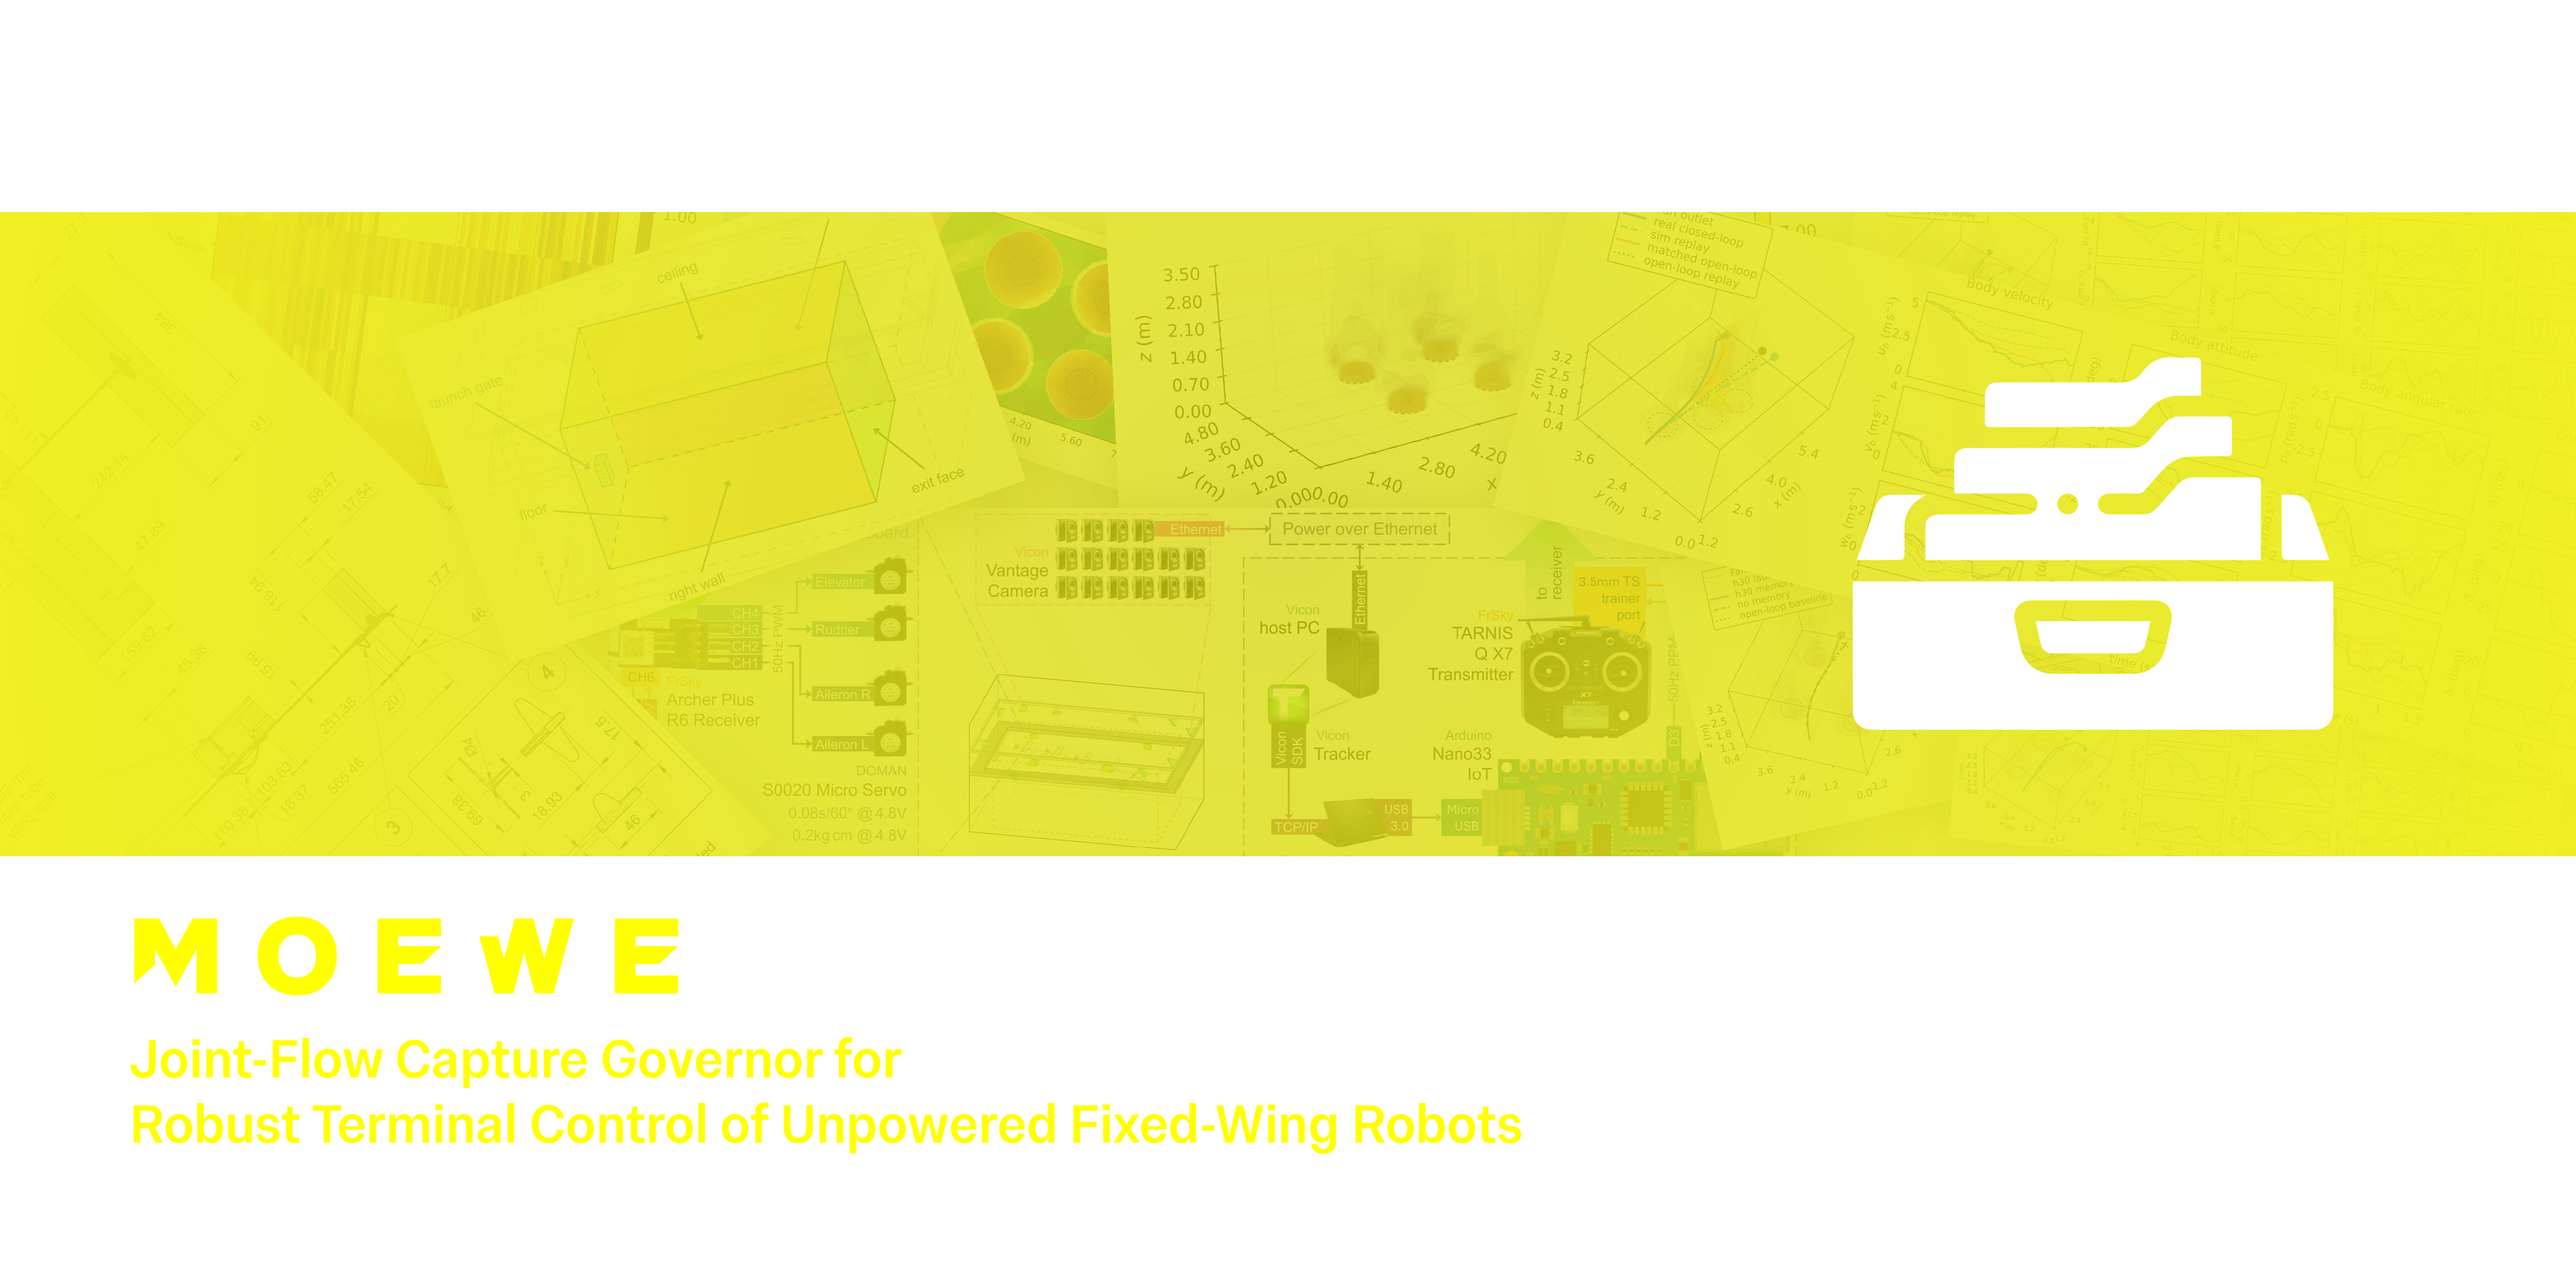
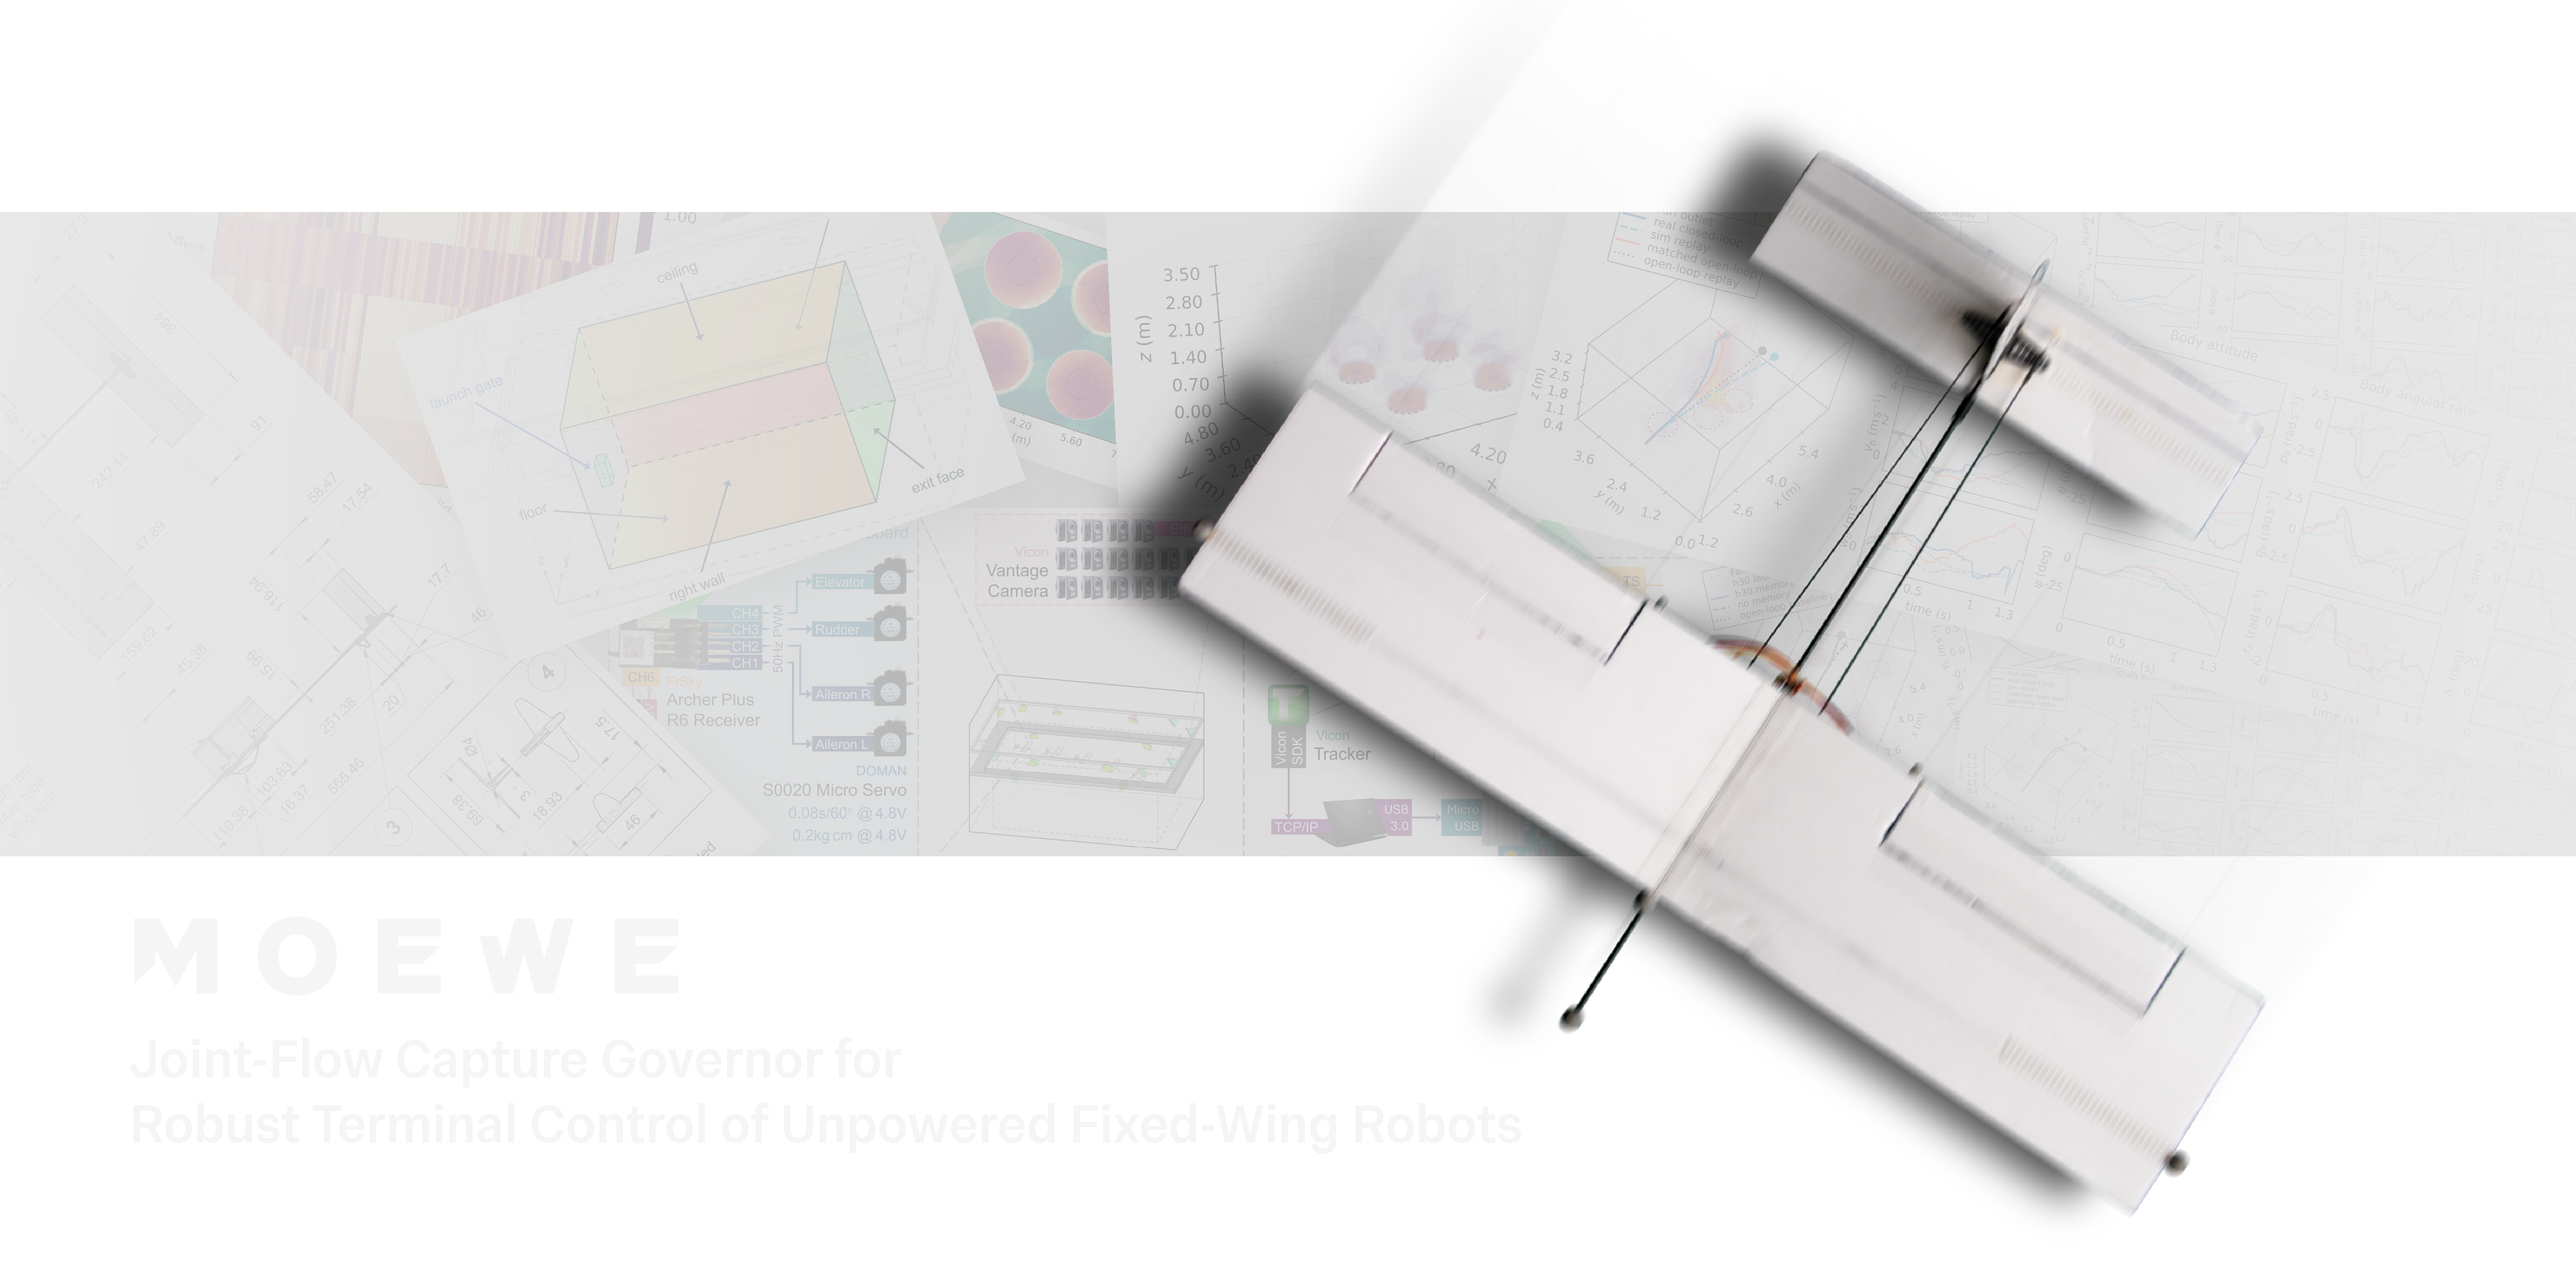
Update README.md

diff --git a/README.md b/README.md
@@ -22,19 +22,17 @@
   </picture>
 </p>
 
-## Research Status
-
-Moewe was archived because its intended advantage could not be demonstrated convincingly within the available facility and project window—not because the implementation was empty.
-
-**The arena conflicts with the claimed advantage.** The usable flight length is only 5.4 m: near 6 m/s, a traversal lasts about 0.9 s and permits roughly nine governor updates. A 140 ms command-onset delay consumes about 0.84 m, while the 240 ms prediction horizon spans about 1.44 m. JFCG is intended to make repeated, recursively safe corrections as distance decreases; here, only a few commands can become effective, making a successful run difficult to distinguish from launch stabilisation followed by one terminal correction.
-
-**The novelty is real but limited.** The distinctive contribution is the integration of shared centre-flow and spatial-gradient factors with delayed-command propagation, full-body terminal geometry, a distance-indexed capture cover, and a stored backup reference. Its underlying ingredients—reference governors, zonotopes, reachability, local feedback, and a small online QP—are established methods. Without ablations showing that the joint-flow structure materially enlarges the certified region or improves flight outcomes, the work demonstrates a thoughtful integration rather than a strong state-of-the-art advance.
-
-Development therefore stopped before realistic uncertainty calibration, a nonempty production certificate, comparative baselines, an end-to-end simulation campaign, or hardware validation. The associated draft was not considered ready for T-RO or RA-L. Any guarantee remains conditional on calibrated uncertainty containment, conservative geometry, verified initialization, sound generated prediction, and the runtime timing contract; passing the software tests does not establish flight safety.
-
 ## About
 
-Moewe accompanies the draft manuscript *Joint-Flow Capture Governor for Robust Terminal Control of Unpowered Fixed-Wing Robots*. It investigates the final approach of an unpowered aircraft when recovery distance is limited, commands are delayed, airflow varies across the airframe, and the complete aircraft must safely pass through a gate or make an admissible first landing contact.
+Moewe accompanies the draft manuscript *Joint-Flow Capture Governor (JFCG) for Robust Terminal Control of Unpowered Fixed-Wing Robots*. It investigates the final approach of an unpowered aircraft when recovery distance is limited, commands are delayed, airflow varies across the airframe, and the complete aircraft must safely pass through a gate or make an admissible first landing contact.
+
+## Research Status
+
+Moewe was archived because its intended advantage could not be demonstrated convincingly within the available facility.
+
+**The arena conflicts with the claimed advantage.** The usable flight length is only 5.4 m: near 6 m/s, a traversal lasts about 0.9 s and permits roughly nine governor updates. A 140 ms command-onset delay consumes about 0.84 m, while the 240 ms prediction horizon spans about 1.44 m. JFCG is intended to make repeated, recursively safe corrections as distance decreases. However, only a few commands can become effective here, making a successful run difficult to distinguish from launch stabilisation followed by one terminal correction.
+
+**The novelty is limited.** The distinctive contribution is the integration of shared centre-flow and spatial-gradient factors with delayed-command propagation, full-body terminal geometry, a distance-indexed capture cover, and a stored backup reference. Its underlying ingredients—reference governors, zonotopes, reachability, local feedback, and a small online QP—are established methods. Without ablations showing that the joint-flow structure materially enlarges the certified region or improves flight outcomes, the work only demonstrates a thoughtful integration instead of a strong state-of-the-art advance.
 
 ## Method and Timing
 
@@ -79,25 +77,3 @@ py -3.12 -m venv .venv
 .\.venv\Scripts\python.exe -m pip install --upgrade pip
 .\.venv\Scripts\python.exe -m pip install numpy==2.2.6 scipy==1.16.3 pytest==9.0.3
 ```
-
-Run the tests from the repository root:
-
-```powershell
-.\.venv\Scripts\python.exe -m pytest -q
-```
-
-Last local result:
-
-```text
-126 passed, 1056 subtests passed
-```
-
-There is no stable command-line interface or bundled production configuration. The tests are the executable construction examples.
-
-Related experimental context is available in the [Nausicaa repository](https://github.com/GH-X-ST/Nausicaa) and [public thesis site](https://gh-x-st.github.io/Nausicaa-Thesis/).
-
-## Citation and License
-
-The associated manuscript remains a draft, and this software snapshot has no DOI. Until a formal record is available, cite the repository URL, exact Git commit, access date, and manuscript title.
-
-No license file is included. Do not assume that public availability grants permission to copy, modify, redistribute, or use the software operationally.
